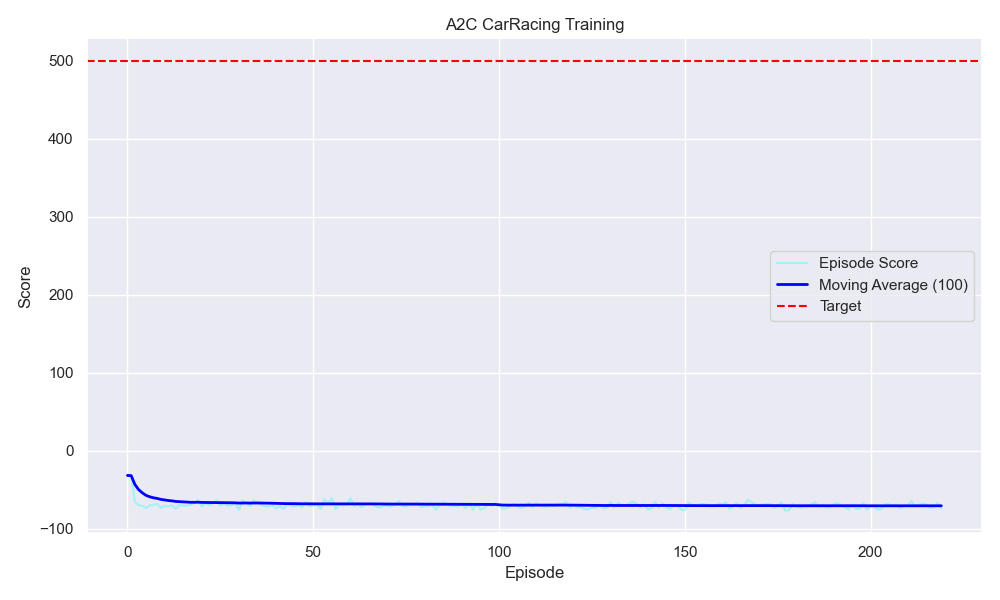
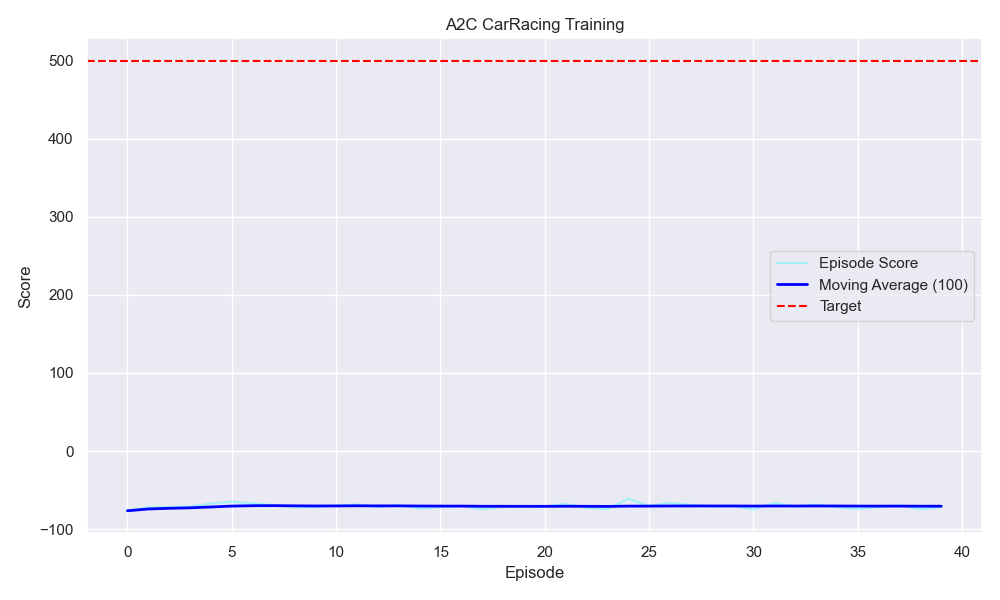
* Enhance A2C agent with target network for improved stability; * update training process and configuration. * Add new entries to .gitignore.

diff --git a/a2c_car_racing/a2c_agent.py b/a2c_car_racing/a2c_agent.py
@@ -2,19 +2,38 @@ import torch
 import torch.nn.functional as F
 import torch.optim as optim
 import numpy as np
+import copy
 
 
 class A2CAgent:
-    def __init__(self, model, device, lr=3e-4, gamma=0.99, entropy_coef=0.01):
+    """
+    A2C с целевой сетью для критика (target network).
+    Bootstrap: V_target(s') вместо V(s') — убирает «chasing the target» и стабилизирует обучение.
+    По идее из Practical RL: follow-up papers используют target networks для value estimation.
+    """
+
+    def __init__(
+        self,
+        model,
+        device,
+        lr=3e-4,
+        gamma=0.99,
+        entropy_coef=0.01,
+        tau=0.005,
+    ):
         self.model = model
         self.device = device
         self.gamma = gamma
         self.entropy_coef = entropy_coef
+        self.tau = tau  # коэффициент мягкого обновления target: θ_target = τ*θ_target + (1-τ)*θ
 
-        # Оптимизатор обновляет ВСЕ веса модели (и CNN, и Heads)
+        # Целевая сеть (копия модели) — используется только для bootstrap value
+        self.target_model = copy.deepcopy(model).to(device)
+        for p in self.target_model.parameters():
+            p.requires_grad = False
+
         self.optimizer = optim.Adam(model.parameters(), lr=lr)
 
-        # Память для текущей серии шагов (Rollout)
         self.log_probs = []
         self.values = []
         self.rewards = []
@@ -71,6 +90,20 @@ class A2CAgent:
 
         return action_np
 
+    def bootstrap_value(self, state: np.ndarray) -> float:
+        """Считает V_target(s) для bootstrap — без градиентов, через целевую сеть."""
+        state_t = torch.FloatTensor(state).unsqueeze(0).to(self.device)
+        with torch.no_grad():
+            _, _, v = self.target_model(state_t)
+        return v.item()
+
+    def update_target(self):
+        """Мягкое обновление целевой сети (Polyak): θ_target = τ*θ_target + (1-τ)*θ."""
+        for target_p, p in zip(
+            self.target_model.parameters(), self.model.parameters()
+        ):
+            target_p.data.copy_(self.tau * target_p.data + (1.0 - self.tau) * p.data)
+
     def learn(self, next_value=0):
         """
         Считает Loss и обновляет веса.
@@ -94,9 +127,9 @@ class A2CAgent:
         entropies = torch.stack(self.entropies)
 
         # --- 2. Считаем Advantage ---
-        # A = G_t - V(s)
-        # Не забудь .detach() для values!
         advantage = returns - values.detach()
+        # Нормализация стабилизирует градиенты (best practice A2C/PPO)
+        advantage = (advantage - advantage.mean()) / (advantage.std() + 1e-8)
 
         # --- 3. Считаем Лоссы ---
 

diff --git a/a2c_car_racing/train.py b/a2c_car_racing/train.py
@@ -26,6 +26,7 @@ class Config:
     LR = 3e-4
     GAMMA = 0.99
     ENTROPY_COEF = 0.05
+    TAU = 0.005  # Мягкое обновление целевой сети: θ_target = TAU*θ_target + (1-TAU)*θ
     DEVICE = torch.device("cuda" if torch.cuda.is_available() else "cpu")
     TARGET_SCORE = 500  # Цель для сохранения
 
@@ -81,6 +82,7 @@ def train(cfg: Config):
         lr=cfg.LR,
         gamma=cfg.GAMMA,
         entropy_coef=cfg.ENTROPY_COEF,
+        tau=cfg.TAU,
     )
 
     scores = []  # История всех очков
@@ -118,15 +120,12 @@ def train(cfg: Config):
                 if done:
                     next_val = 0
                 else:
-                    # state -> Tensor -> Model -> Value
-                    state_t = torch.FloatTensor(state).unsqueeze(0).to(cfg.DEVICE)
-                    # Используем torch.no_grad(), чтобы не копить градиенты тут
-                    with torch.no_grad():
-                        _, _, next_val = model(state_t)
-                        next_val = next_val.item()
+                    # Bootstrap через целевую сеть (V_target), а не текущую — стабилизирует обучение
+                    next_val = agent.bootstrap_value(state)
 
                 # 3. Обучение
                 agent.learn(next_value=next_val)
+                agent.update_target()
 
             # Эпизод завершен
             scores_window.append(score)
